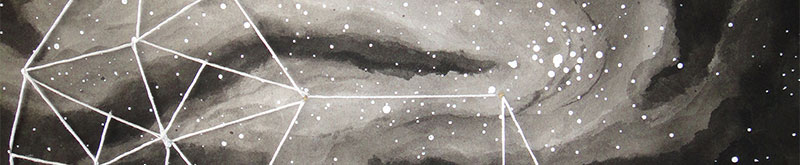
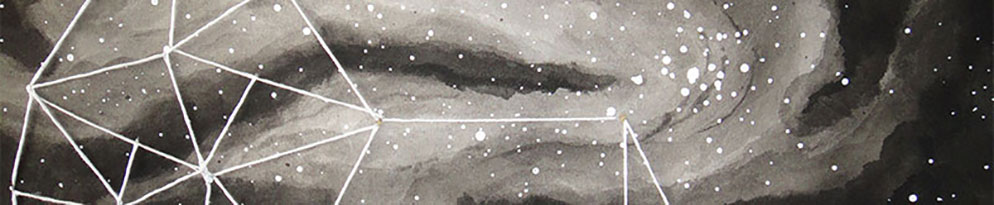
backgrounds and foregrounds being drawn

Changed region(s): [[0.25, 0.3939, 0.2812, 0.4242], [0.125, 0.7273, 0.1562, 0.7576], [0.0938, 0.9091, 0.125, 0.9394]]

diff --git a/public/js/canvas.js b/public/js/canvas.js
@@ -1,5 +1,4 @@
 let canvasModule = {};
-let canvasInstance;
 
 canvasModule.main = function () {
   var self = this;
@@ -63,11 +62,13 @@ canvasModule.main = function () {
     addTick(); //run a timer which updates the stage continuously
     addFilters(); //effects like blur
     addControlsListeners(); //the buttons which manipulate images on the canvas
-    addInitialOrganism(); //add the organism image selected in the previous step (create)
+    //addInitialOrganism(); //add the organism image selected in the previous step (create)
   }
 
   var addControlsListeners = function () {
     isTouch = true;
+
+    $('.image-button').on('click', onImageButtonClick);
 
     // $('.front').on('click', onFrontClick); //send item in front of all others
     // $('.back').on('click', onBackClick); //send item behind all others
@@ -77,9 +78,72 @@ canvasModule.main = function () {
     // $('.scale').on('click', updateScale);
     // $('.blur').on('click', changeBlur);
 
-    // $('.image-button').on('click', onImageButtonClick);
     //$('.btn-save').on('click', onSaveClick); //user has saved their imagery
     initCanvasTouch();
+  }
+
+  var onImageButtonClick = function () {
+    var $thisItem = $(this);
+    var thisType = $thisItem.attr('data-type');
+
+    addingID = parseInt($thisItem.attr('data-id'));
+
+    
+
+    switch (thisType) {
+      case 'background':
+      case 'foreground':
+        onEnvironmentClick($thisItem, thisType);
+        break;
+      default:
+        onItemClick($thisItem);
+        break;
+    }
+  }
+
+  var onEnvironmentClick = function ($thisItem, thisType) {
+    //MH TODO: Handle foreground and background removal through control buttons
+    var thisImageURL = $thisItem.attr('src');
+    var thisType = $thisItem.attr('data-type');
+    loadEnvironment(thisImageURL, thisType);
+  }
+
+  var loadEnvironment = function (src, type) { //backgrounds and foregrounds loaded with this functionality as they need to be sized and manipulated differently
+    var envImg = new Image();
+    envImg.src = src;
+
+    $(envImg).load(function () {
+      drawEnvironment(envImg, type);
+    });
+  }
+
+  var drawEnvironment = function (envImg, type) {
+    var envBitmap = new createjs.Bitmap(envImg);
+    switch (type) {
+      case 'foreground':
+        envBitmap.y = gridBounds.y;
+        if (envForeground != null) {
+          stage.removeChild(envForeground);
+        }
+        envForeground = envBitmap;
+        stage.addChild(envBitmap);
+        stage.setChildIndex(envBitmap, 0); //foreground should be behind all other elements
+        break;
+      case 'background':
+        envBitmap.y = 0;
+        if (envBackground != null) {
+          stage.removeChild(envBackground);
+        }
+        envBackground = envBitmap;
+        stage.addChild(envBitmap);
+        stage.setChildIndex(envBitmap, 1); //background should be behind all other elements
+        break;
+    }
+    stageUpdate = true;
+  }
+
+  var onItemClick = function(){
+    
   }
 
   var initCanvasTouch = function () { //add the listeners that allow a user to use touch gestures to rotate and scale their imagery
@@ -141,5 +205,6 @@ canvasModule.main = function () {
 }
 
 window.onload = function () {
-  canvasInstance = new canvasModule.main();
+  window.canvasInstance = new canvasModule.main();
+  window.canvasInstance.init();
 }

diff --git a/src/screens/Visualize/Visualize.js b/src/screens/Visualize/Visualize.js
@@ -38,7 +38,7 @@ class Visualize extends React.Component {
   handleVisualizeCategoryClick = (visualizeCategory) => {
     this.setState({
       activeImageCategory: visualizeCategory
-    })
+    });
   }
 
   handleVisualizeImageClick = (visualizeImage) => {
@@ -109,23 +109,39 @@ class Visualize extends React.Component {
                 }
               </div>
               <div className="visualize__images__scroll_container">
-                <div className="visualize__images">
-                  {
-                    visualizeData[activeImageCategory].map((imageItem, index) => {
-                      return (
-                        <div
-                          className={`visualize__image_container image-button ${activeImage && activeImage.title === imageItem.title ? 'active' : ''}`}
-                          key={`visualize__image--${imageItem.title}`}
-                          onClick={() => {
-                            this.handleVisualizeImageClick(imageItem)
-                          }}
-                        >
-                          <img src={`${imageItem.image}`} alt={imageItem.title} className="visualize__image" />
-                        </div>
-                      )
-                    })
-                  }
-                </div>
+                {
+                  visualizeSettingsData.CATEGORIES.map((category, index) => {
+                    return (
+                      <div 
+                        className={`visualize__images ${category} ${activeImageCategory === category ? 'active' : ''}`}
+                        key={`visualize__images--${category}`}
+                      >
+                        {
+                          visualizeData[category].map((imageItem, index) => {
+                            return (
+                              <div
+                                className={`visualize__image_container ${activeImage && activeImage.title === imageItem.title ? 'active' : ''}`}
+                                key={`visualize__image--${imageItem.title}`}
+                              // onClick={() => {
+                              //   this.handleVisualizeImageClick(imageItem)
+                              // }}
+                              >
+                                <img
+                                  src={`${imageItem.image}`}
+                                  alt={imageItem.title}
+                                  className="visualize__image image-button"
+                                  data-type={activeImageCategory}
+                                  data-id={`${activeImageCategory}-${imageItem.id}`}
+                                />
+                              </div>
+                            )
+                          })
+                        }
+                      </div>
+                    )
+                  })
+                }
+
               </div>
             </div>
           </section>

diff --git a/src/screens/Visualize/Visualize.scss b/src/screens/Visualize/Visualize.scss
@@ -68,6 +68,10 @@
     &::-webkit-scrollbar {
       display: none;
     }
+    display: none;
+    &.active {
+      display: block;
+    }
   }
   &__image_container {
     width: 150px;
